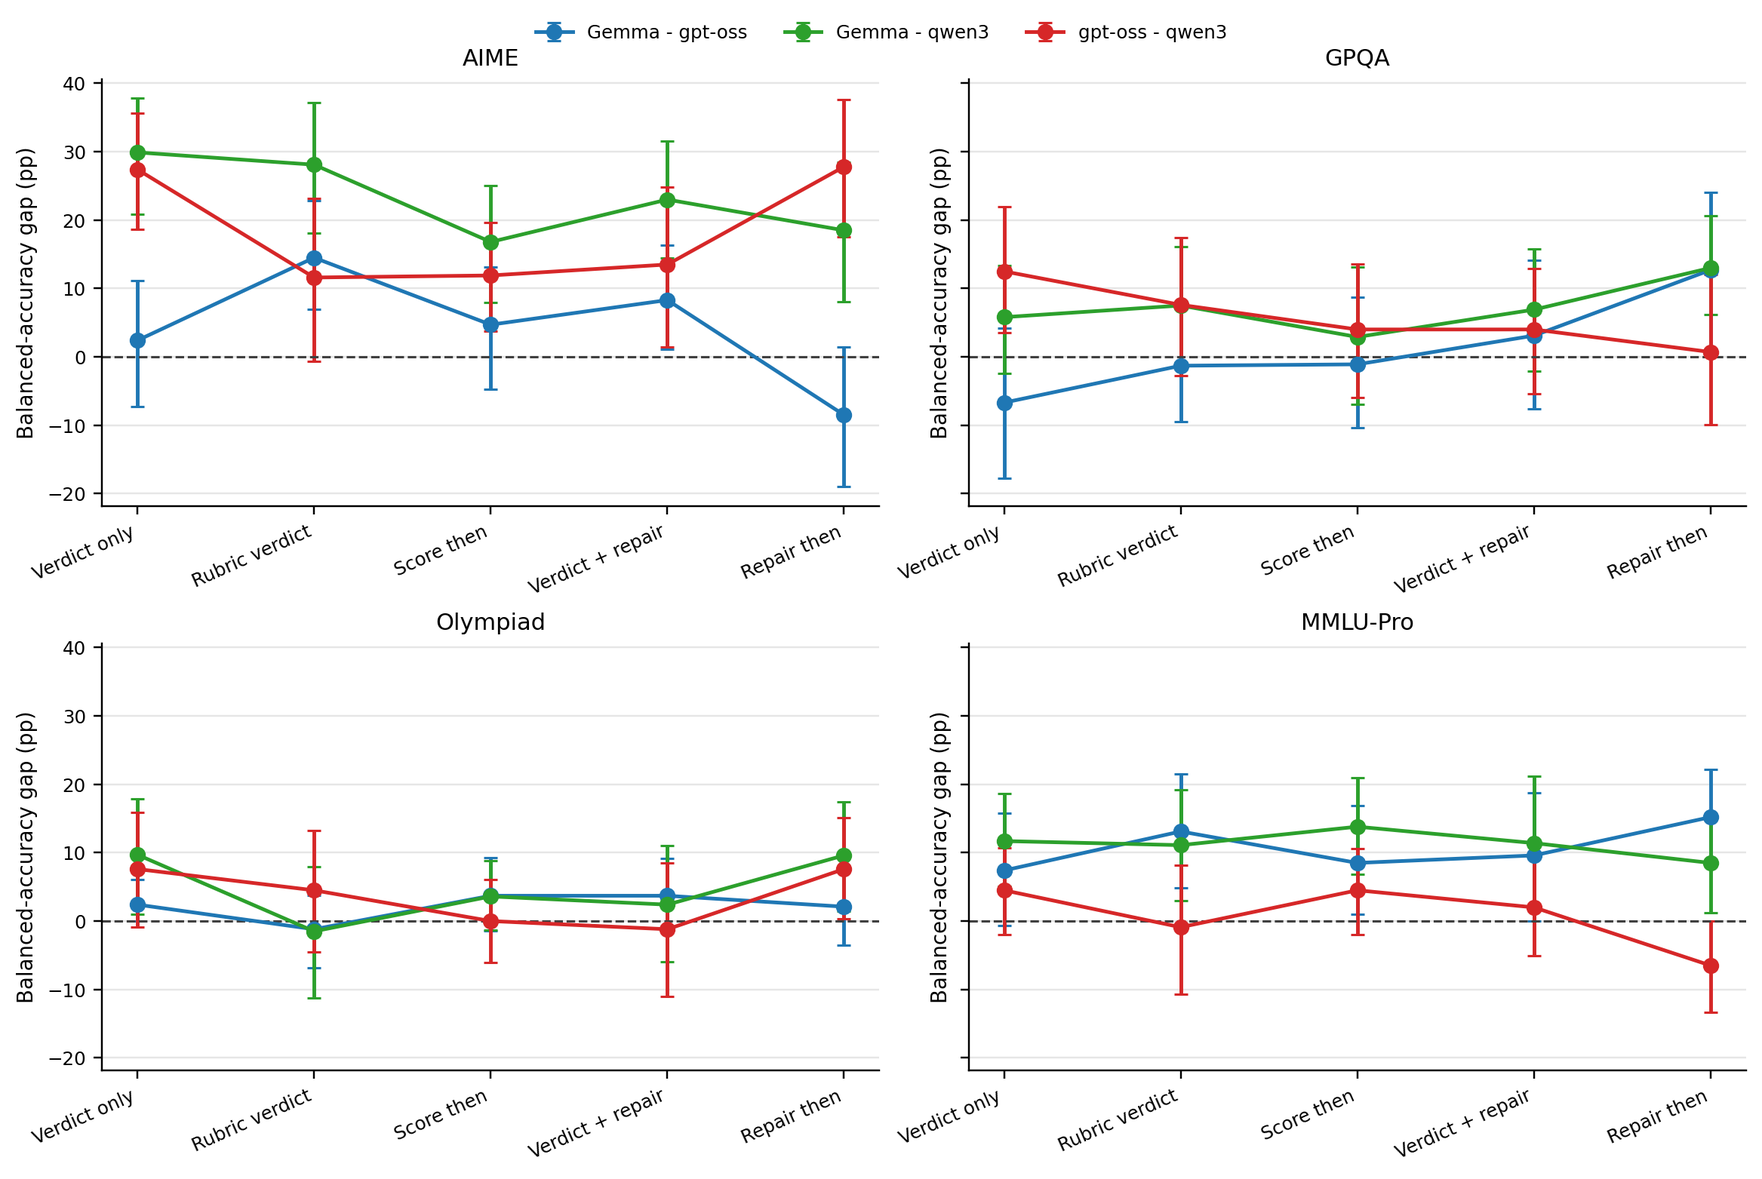
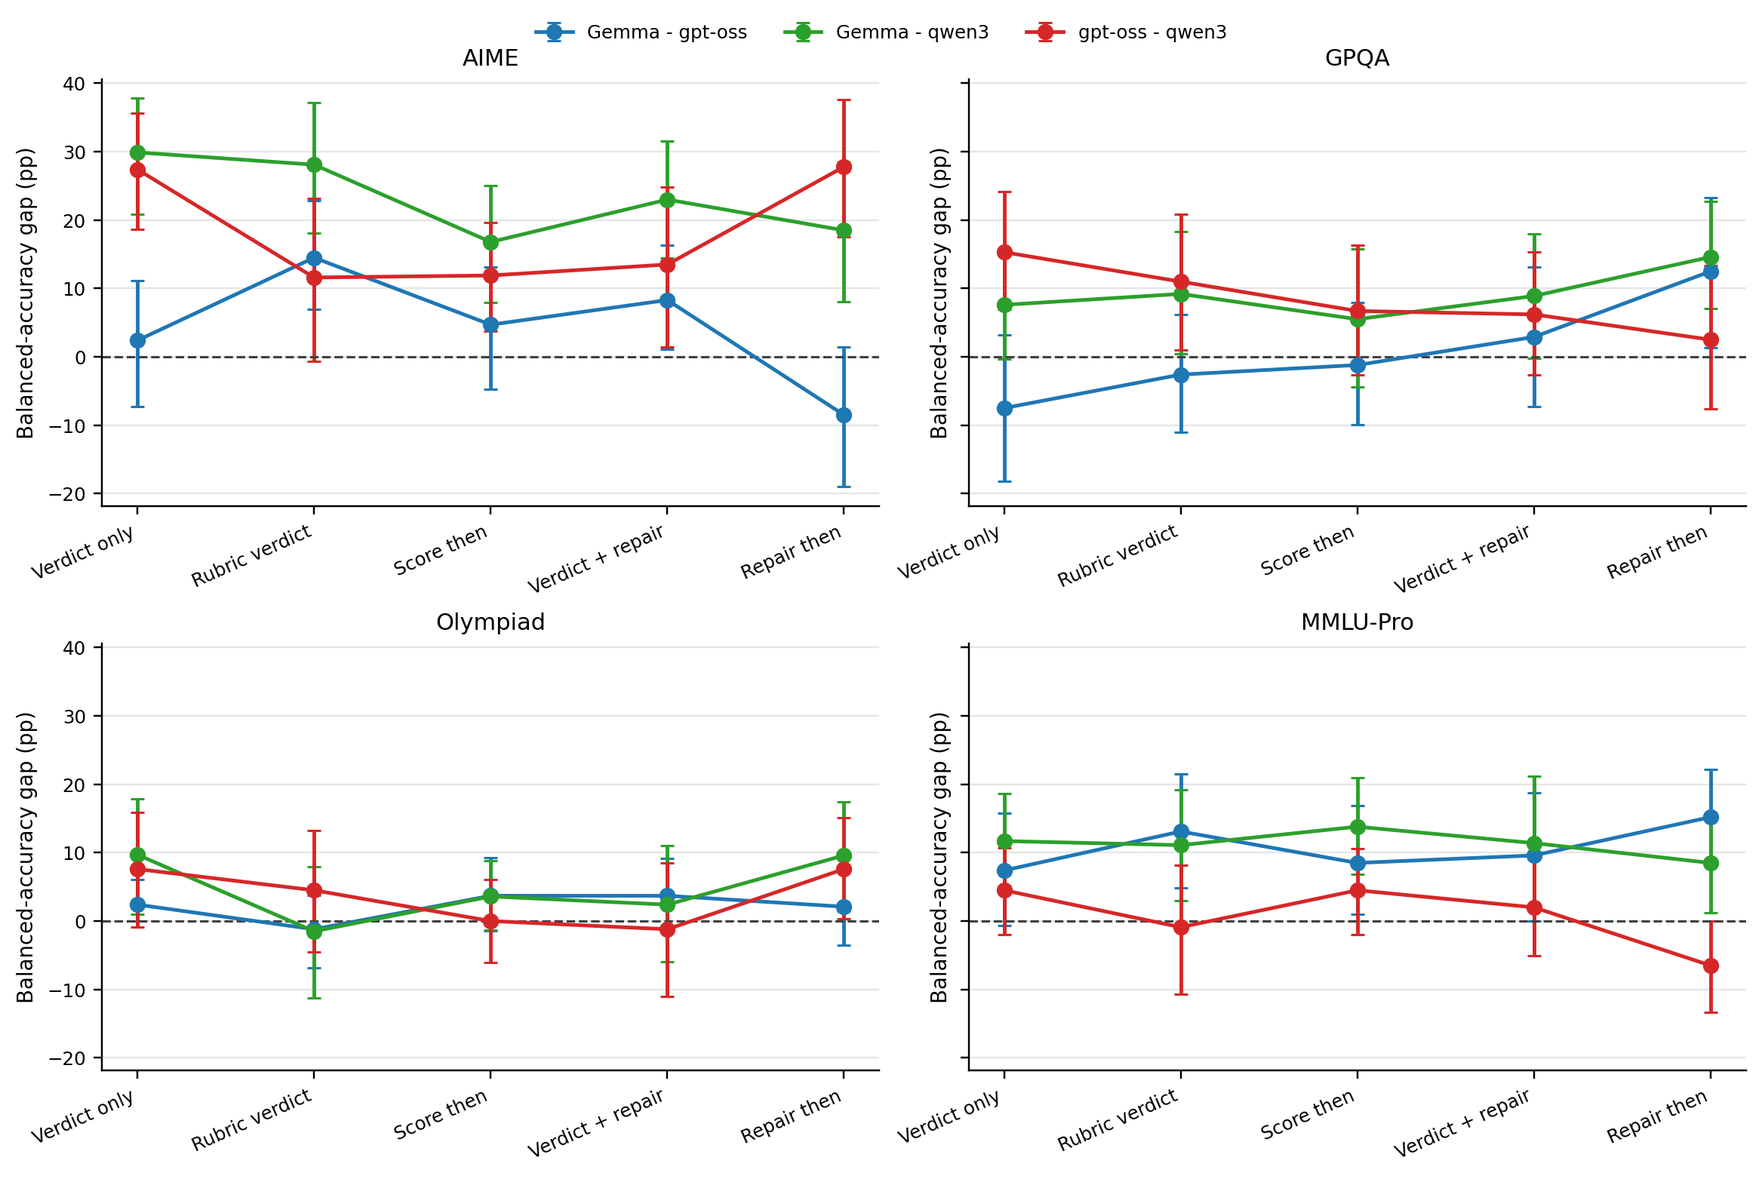
Full-matrix deliberation, reference-provided control, MCQ label-fix note
- Deliberation-in-schema Results updated from the AIME+GPQA matched subset to the
  full 3 judges x 4 datasets x 5 interfaces matrix (mean interface range 8.0->4.9pp;
  rankings unstable in all four no-think datasets, stable in all four with deliberation).
- New scoping subsection: reference-provided control collapses the confound
  (range 9.4->1.6pp, verdict-flip 17.1%->1.7%), localizing it to reference-free
  verifier-style judging.
- Methods: note that MCQ correctness labels were re-derived with a robust
  option-letter normalizer (corrected five GPQA labels; conclusions unchanged).
- Figures regenerated from the corrected full-matrix CSVs.

Changed region(s): [[0.555, 0.215, 0.9867, 0.3378], [0.555, 0.3378, 0.5859, 0.3685]]

diff --git a/main_ieee.tex b/main_ieee.tex
@@ -144,7 +144,7 @@ The no-deliberation matrix uses three local judge configurations: Gemma-4-no-thi
 
 All judges are served through the repository's local model presets. qwen3-no-think uses Qwen/Qwen3-32B with enable\_thinking=False; gpt-oss-no-think uses openai/gpt-oss-20b with reasoning\_effort=low; Gemma-4-no-think uses the Gemma-4 local serving configuration. The interface-confound runs use constrained JSON decoding through response\_format=json\_schema with strict schemas and a judge completion budget of max\_tokens=16000. The default endpoint is http://localhost:8000/v1.
 
-The secondary deliberation-in-schema run uses the same three judge families on AIME and GPQA. It does not rely on native private chain-of-thought modes. Instead, the constrained schema adds a required leading free-text reasoning field before the verdict fields, paired with an instruction to think step by step before emitting the verdict. This makes deliberation an explicit output-interface intervention.
+The secondary deliberation-in-schema run uses the same three judge families, four datasets, and five interfaces as the no-deliberation matrix. It does not rely on native private chain-of-thought modes. Instead, the constrained schema adds a required leading free-text reasoning field before the verdict fields, paired with an instruction to think step by step before emitting the verdict. This makes deliberation an explicit output-interface intervention.
 
 \subsection{Prompt-Interface Variants}
 \label{sec:prompt-variants}
@@ -154,7 +154,7 @@ The no-deliberation matrix uses five benign output interfaces. \textsc{Verdict-O
 \subsection{Logging Schema and Answer Checking}
 \label{sec:logging}
 
-Each judgment record stores the dataset, problem identifier, candidate identifier, judge model, output interface, parsed verdict, confidence when present, corrected answer when requested, raw response, token counts, non-verdict status, and the precomputed correctness of the candidate solution. Ground-truth checking uses dataset-specific answer normalization. For short-answer mathematics datasets, the final answer is normalized before exact or symbolic comparison. For multiple-choice datasets, the selected option is compared against the answer key. The main interface-confound analysis uses the verdict only; corrected answers are logged for secondary repair analyses.
+Each judgment record stores the dataset, problem identifier, candidate identifier, judge model, output interface, parsed verdict, confidence when present, corrected answer when requested, raw response, token counts, non-verdict status, and the precomputed correctness of the candidate solution. Ground-truth checking uses dataset-specific answer normalization. For short-answer mathematics datasets, the final answer is normalized before exact or symbolic comparison. For multiple-choice tasks, we re-derived candidate correctness labels with a robust option-letter normalizer; this corrected five GPQA labels, after which all accuracy-dependent analyses were recomputed and the reported conclusions were unchanged. The main interface-confound analysis uses the verdict only; corrected answers are logged for secondary repair analyses.
 
 \subsection{Coverage and Non-Verdict Handling}
 \label{sec:parse-handling}
@@ -312,17 +312,42 @@ Olympiad & 75 & 10 & 65 & 78.5--100.0 & qwen3 rubric \\
 \label{tab:coverage}
 \end{table}
 
+\subsection{Reference-Provided Control Localizes the Confound}
+\label{sec:results-reference}
+
+As a scoping diagnostic, we reran AIME and GPQA with the gold final answer provided to the judge. The prompt asked only whether the candidate final answer matched the provided answer; it did not ask for reasoning-validity judgments. This keeps the control aligned with the available deterministic label and tests whether the interface effect remains when reference-free verification is reduced to answer matching.
+
+Providing the reference answer largely collapses the interface spread. On the matched AIME+GPQA subset and three-interface comparison, the mean interface range drops from 9.4 points in the reference-free no-think condition to 1.6 points with the reference provided. The mean verdict-flip rate drops from 17.1\% to 1.7\% (Table~\ref{tab:reference-control}). Gemma-4-no-think is completely stable in this control: its interface range is 0.0 points and its verdict-flip rate is 0.0\% on both AIME and GPQA. gpt-oss-no-think retains only a small residual instability, with 1.1--1.2 point interface ranges and 3.0--5.6\% verdict flips. qwen3-no-think is nearly flat on AIME, with a 1.2 point range and 1.6\% flips, while GPQA remains the largest residual cell with a 5.8 point range but 0.0\% flips.
+
+The control therefore localizes the main confound. When correctness is reduced to reference-provided final-answer matching, ordinary output-interface choices barely move the measurement. The larger instability in the main experiment lives in reference-free verifier-style judging, where the judge must evaluate the candidate solution without seeing the gold answer. This does not weaken the main result; it scopes it to the critique, best-of-N, and self-repair settings where such reference-free verification is the actual use case.
+
+\begin{table}[t]
+\centering
+\footnotesize
+\setlength{\tabcolsep}{4pt}
+\begin{tabular}{lrr}
+\toprule
+Condition & Mean range & Mean flips \\
+\midrule
+Reference-free & 9.4 & 17.1 \\
+Reference-provided & 1.6 & 1.7 \\
+\bottomrule
+\end{tabular}
+\caption{Reference-provided control summary from ifc\_reference\_control.csv. Mean range is the mean max-min balanced-accuracy spread across judges and datasets on AIME and GPQA with three matched interfaces. Mean flips is the mean percentage of fixed candidates whose verdict changes across those interfaces.}
+\label{tab:reference-control}
+\end{table}
+
 \subsection{Deliberation-in-Schema Stabilizes the Comparison}
 \label{sec:results-deliberation}
 
-The secondary robustness experiment asks whether adding an explicit deliberation slot to the constrained output contract stabilizes judge comparisons. This is not a native chain-of-thought comparison. The intervention is itself an interface change: a required free-text reasoning field is placed before the verdict fields, and the judge is instructed to reason before giving the verdict. The matched subset uses AIME and GPQA, the same three judges, and three interfaces: verdict-only, rubric-verdict, and repair-then-verdict.
+The secondary robustness experiment asks whether adding an explicit deliberation slot to the constrained output contract stabilizes judge comparisons. This is not a native chain-of-thought comparison. The intervention is itself an interface change: a required free-text reasoning field is placed before the verdict fields, and the judge is instructed to reason before giving the verdict. The full deliberation matrix mirrors the no-deliberation matrix: three judges, four datasets, five interfaces, and 4500 deliberation records.
 
-On this subset, deliberation-in-schema shrinks the mean interface range from 9.0 points to 3.3 points (Figure~\ref{fig:ifc-think}). Without the reasoning field, every judge-dataset cell has two distinct interface-specific rankings across the three interfaces. With the reasoning field, every judge-dataset cell has one distinct ranking, so the rank flips in the matched no-think subset disappear. Balanced accuracy also generally rises in the frozen per-interface deliberation table. For Gemma-4-no-think on AIME, the no-deliberation range of 79.1--91.8\% becomes 96.3--97.5\% with deliberation. On GPQA, Gemma-4-no-think moves from 58.0--68.7\% to 66.5--70.1\%, gpt-oss-no-think moves from 56.4--65.5\% to 61.6--65.6\%, and qwen3-no-think moves from 52.2--55.6\% to 53.3--58.7\%. The mean reasoning field length is 1443 characters on AIME and 1174 characters on GPQA. Valid-verdict coverage is similar across conditions in the summary table: 94.9--97.7\% without deliberation and 95.1--98.4\% with deliberation.
+Across the full matrix, deliberation-in-schema shrinks the mean interface range from 8.0 points to 4.9 points (Figure~\ref{fig:ifc-think}). The reduction appears in every dataset: AIME falls from 11.6 to 5.0 points, GPQA from 9.0 to 5.6 points, Olympiad from 6.0 to 5.2 points, and MMLU-Pro from 5.6 to 3.6 points. Ranking stability changes even more clearly. Without the reasoning field, interface-specific judge rankings are unstable in all four datasets; with the reasoning field, the ranking is stable across interfaces in all four datasets. Thus deliberation-in-schema stabilizes measured judge comparisons in this matrix, while remaining an output-interface intervention rather than evidence that private reasoning ability generally solves judge brittleness.
 
 \begin{figure}[t]
 \centering
 \includegraphics[width=\columnwidth]{figures/fig_ifc_think.png}
-\caption{Deliberation-in-schema robustness ablation. Bars show the max-min balanced-accuracy range across the three matched interfaces for each judge on AIME and GPQA. Adding a required leading reasoning field reduces interface range and collapses the observed interface-specific ranking variants from two to one in each matched dataset.}
+\caption{Deliberation-in-schema robustness ablation on the full matrix. Bars show the max-min balanced-accuracy range across five interfaces for each judge and dataset. Adding a required leading reasoning field reduces interface range in every dataset and stabilizes the interface-specific judge rankings in all four datasets.}
 \label{fig:ifc-think}
 \end{figure}
 
@@ -331,22 +356,26 @@ On this subset, deliberation-in-schema shrinks the mean interface range from 9.0
 \footnotesize
 \setlength{\tabcolsep}{4pt}
 \resizebox{\columnwidth}{!}{%
-\begin{tabular}{llrrrr}
+\begin{tabular}{llrr}
 \toprule
-Condition & Dataset & Mean range & Rankings & Valid rate & Reason chars \\
+Condition & Dataset & Mean range & Rankings \\
 \midrule
-No deliberation & AIME & 10.3 & 2 & 94.9 & 0 \\
-No deliberation & GPQA & 7.7 & 2 & 97.7 & 0 \\
-Deliberation & AIME & 2.3 & 1 & 95.1 & 1443 \\
-Deliberation & GPQA & 4.4 & 1 & 98.4 & 1174 \\
+No deliberation & AIME & 11.6 & 2 \\
+No deliberation & GPQA & 9.0 & 2 \\
+No deliberation & Olympiad & 6.0 & 3 \\
+No deliberation & MMLU-Pro & 5.6 & 2 \\
+Deliberation & AIME & 5.0 & 1 \\
+Deliberation & GPQA & 5.6 & 1 \\
+Deliberation & Olympiad & 5.2 & 1 \\
+Deliberation & MMLU-Pro & 3.6 & 1 \\
 \bottomrule
 \end{tabular}
 }
-\caption{Deliberation-in-schema robustness summary. Mean range is the mean across judges of the max-min balanced-accuracy spread across the three matched interfaces. Rankings is the number of distinct interface-specific judge rankings observed in the dataset condition.}
+\caption{Deliberation-in-schema robustness summary from ifc\_think\_vs\_nothink\_full.csv. Mean range is the mean across judges of the max-min balanced-accuracy spread across five interfaces. Rankings is the number of distinct interface-specific judge rankings observed in the dataset condition.}
 \label{tab:deliberation}
 \end{table}
 
-The practical reading is narrow. Adding a leading deliberation field appears to stabilize the measured comparison in this matched subset, but it should not be described as proof that model reasoning ability solves judge brittleness. It is a controlled output-interface intervention, and its success reinforces the main thesis: the judge interface changes the measurement.
+The practical reading remains narrow. Adding a leading deliberation field stabilizes the measured comparison in this matrix, but it should not be described as proof that model reasoning ability solves judge brittleness. It is a controlled output-interface intervention, and its success reinforces the main thesis: the judge interface changes the measurement.
 
 
 \section{Discussion}
@@ -358,6 +387,8 @@ The practical reading is narrow. Adding a leading deliberation field appears to 
 The main result is that LLM judge comparisons are interface-contingent measurements. The experiment holds the judged content fixed and changes only the output contract imposed on the judge. Under that design, interface choices change pairwise judge gaps, adjacent rank orderings, and item-level verdicts. The effect is not a uniform prompt penalty applied to every judge. It is an interaction: different judges respond differently to the same output interface, and that interaction itself changes across task families.
 
 This distinction is the paper's central boundary with prior prompt-sensitivity work. If all judges shifted similarly under a new prompt format, a leaderboard comparison could remain stable even while absolute accuracy changed. The results here show a more consequential failure mode. A judge model can appear better than an adjacent model under one reasonable interface and worse under another, even when the candidate solutions and ground-truth labels are unchanged.
+
+The reference-provided control further narrows the interpretation. When judges are shown the gold final answer and asked only to check final-answer match, the interface range and verdict-flip rate largely collapse. The measured instability is therefore not a claim that every possible grading setup is equally brittle. It is a claim about reference-free verifier-style judging, where the judge must evaluate a candidate solution without being handed the answer.
 
 \subsection{Why Task Family Matters}
 \label{sec:discussion-task-family}
@@ -376,7 +407,7 @@ Repair-coupled interfaces deserve particular care. They are common in critique-r
 \subsection{Deliberation as an Interface Choice}
 \label{sec:discussion-deliberation}
 
-The deliberation-in-schema ablation is best read narrowly. Adding a required reasoning field before the verdict stabilizes the tested AIME and GPQA comparisons and improves balanced accuracy in several cells. That is useful evidence that some interface choices can reduce instability. It is not evidence that private reasoning ability generally solves judge brittleness. The intervention changes the output contract by forcing an explicit deliberation slot before the verdict, so it is itself part of the interface design space.
+The deliberation-in-schema ablation is best read narrowly. Adding a required reasoning field before the verdict stabilizes the tested comparisons across all four task families and reduces the mean interface range in each dataset. That is useful evidence that some interface choices can reduce instability. It is not evidence that private reasoning ability generally solves judge brittleness. The intervention changes the output contract by forcing an explicit deliberation slot before the verdict, so it is itself part of the interface design space.
 
 This matters for how mitigation claims should be written. A stable interface is not automatically a model capability improvement. It may be a better measurement interface for the task distribution under study. Future work should therefore compare candidate judge interfaces by both accuracy and comparison stability, rather than assuming that more reasoning text, more rubric fields, or more structured output is always better.
 
@@ -387,13 +418,15 @@ First, the experiment uses three local judge families. This is enough to test wh
 
 Second, the task set is intentionally restricted to problems with objective ground truth. This makes false acceptance, false rejection, and balanced accuracy well defined, and it avoids relying on another LLM to score the judge. The same design choice limits generalization to open-ended writing, summarization, dialogue quality, and subjective preference tasks, where there may be no single automatic correctness label.
 
+The reference-provided control also shows that the main effect is not expected to transfer unchanged to reference-based final-answer checking. When the answer is given, the output interface becomes much less consequential in our AIME and GPQA control. The paper's strongest scope is therefore reference-free verification, not every form of LLM-assisted grading.
+
 Third, the candidate pool is small by benchmark-leaderboard standards: 75 sampled candidate solutions per dataset before uniform context-overflow exclusions. The design gains paired control because every judge-interface cell sees the same candidates, but larger samples would give sharper estimates of pairwise gap changes and task-specific rank instability.
 
-Fourth, the interface variants are representative rather than exhaustive. We test verdict-only, rubric-verdict, score-then-verdict, verdict-plus-repair, and repair-then-verdict, along with a deliberation-in-schema subset. Other schemas, rubric granularities, confidence formats, and constrained-decoding implementations may produce different magnitudes. The paper's claim is therefore about interface dependence and comparison instability, not about a universal ordering of all possible interfaces.
+Fourth, the interface variants are representative rather than exhaustive. We test verdict-only, rubric-verdict, score-then-verdict, verdict-plus-repair, and repair-then-verdict, along with deliberation-in-schema versions of the same interface matrix. Other schemas, rubric granularities, confidence formats, and constrained-decoding implementations may produce different magnitudes. The paper's claim is therefore about interface dependence and comparison instability, not about a universal ordering of all possible interfaces.
 
 Fifth, constrained decoding reduces literal JSON failures but does not eliminate all non-verdicts. Long candidate solutions create uniform context-overflow exclusions, and some judge-interface cells have lower valid-verdict coverage because of truncation. We report coverage so that verdict effects are not confused with missingness, but larger-context runs would reduce this nuisance layer.
 
-Finally, deliberation-in-schema is only a secondary ablation on AIME and GPQA. It shows that an explicit reasoning field can stabilize the tested comparisons, but it should not be treated as a general mitigation without broader model and task coverage.
+Finally, deliberation-in-schema is still a design ablation, not a universal mitigation. It stabilizes the tested local-judge comparisons across four datasets, but broader model coverage and subjective no-gold judging are needed before treating it as a general recommendation.
 
 
 \section{Conclusion}

diff --git a/figures/make_figures.py b/figures/make_figures.py
@@ -145,11 +145,12 @@ def fig_gap_slopes() -> None:
 
 
 def fig_think() -> None:
-    rows = read_csv(TABLES / "ifc_think_vs_nothink.csv")
-    fig, axes = plt.subplots(1, 2, figsize=(8.8, 3.8), sharey=True, constrained_layout=True)
+    full_path = TABLES / "ifc_think_vs_nothink_full.csv"
+    rows = read_csv(full_path if full_path.exists() else TABLES / "ifc_think_vs_nothink.csv")
+    fig, axes = plt.subplots(2, 2, figsize=(10.5, 6.2), sharey=True, constrained_layout=True)
     width = 0.36
 
-    for ax, dataset in zip(axes, ["aime", "gpqa"]):
+    for ax, (dataset, title) in zip(axes.flat, DATASETS):
         drows = [r for r in rows if r["dataset"] == dataset]
         lookup = {(r["condition"], r["judge"]): r for r in drows}
         xs = list(range(len(JUDGES)))
@@ -157,15 +158,26 @@ def fig_think() -> None:
         delib_vals = [float(lookup[("deliberation", judge)]["interface_range_pp"]) for judge, _ in JUDGES]
         ax.bar([i - width / 2 for i in xs], no_vals, width=width, label="No deliberation", color="#9ecae1")
         ax.bar([i + width / 2 for i in xs], delib_vals, width=width, label="Deliberation field", color="#fdae6b")
-        ax.set_title(dataset.upper() if dataset == "aime" else "GPQA")
+        ax.set_title(title)
         ax.set_xticks(xs, [label for _, label in JUDGES])
         ax.set_ylabel("Interface range (pp)")
         ax.grid(axis="y", color="0.9", linewidth=0.8)
         for i, (nv, dv) in enumerate(zip(no_vals, delib_vals)):
-            ax.text(i, max(nv, dv) + 0.35, "2→1\nrankings", ha="center", va="bottom", fontsize=7, color="0.25")
+            no_rank = lookup[("no_think", JUDGES[i][0])]["distinct_rankings"]
+            delib_rank = lookup[("deliberation", JUDGES[i][0])]["distinct_rankings"]
+            ax.text(
+                i,
+                max(nv, dv) + 0.35,
+                f"{no_rank}→{delib_rank}\nrankings",
+                ha="center",
+                va="bottom",
+                fontsize=7,
+                color="0.25",
+            )
 
-    axes[0].legend(frameon=False, loc="upper right")
-    fig.suptitle("Deliberation-in-schema reduces interface sensitivity", y=1.04, fontsize=12)
+    handles, labels = axes.flat[0].get_legend_handles_labels()
+    fig.legend(handles, labels, loc="upper center", ncol=2, frameon=False, bbox_to_anchor=(0.5, 1.03))
+    fig.suptitle("Deliberation-in-schema reduces interface sensitivity", y=1.06, fontsize=12)
     fig.savefig(FIGURES / "fig_ifc_think.png", bbox_inches="tight")
     plt.close(fig)
 
